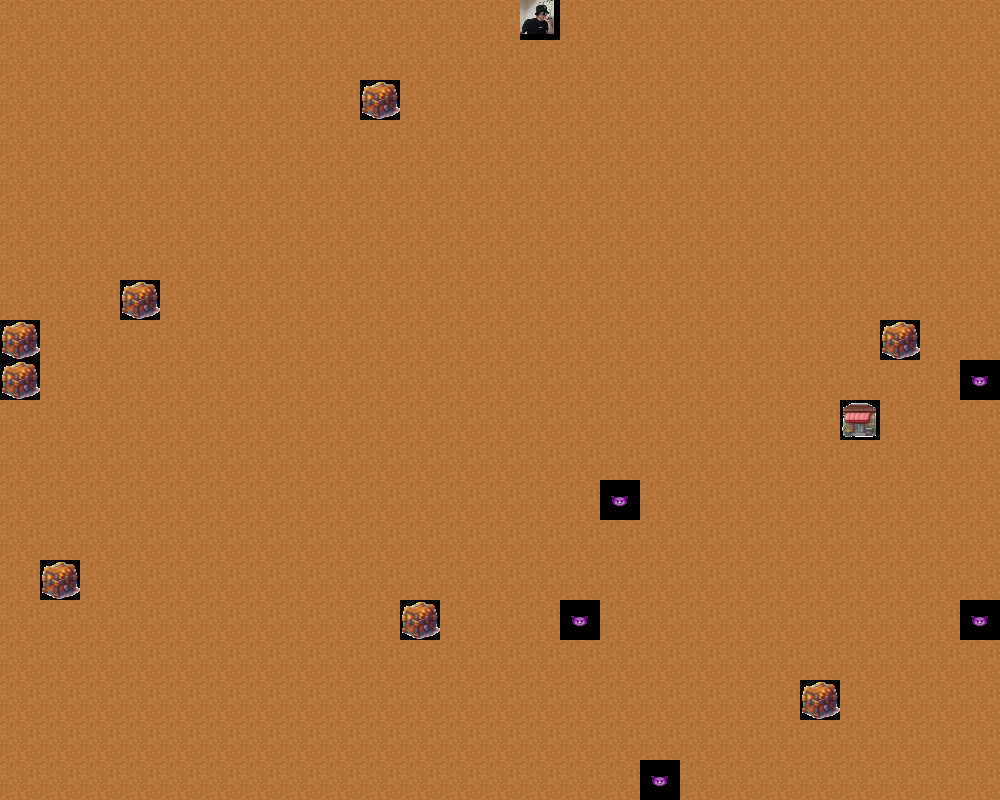
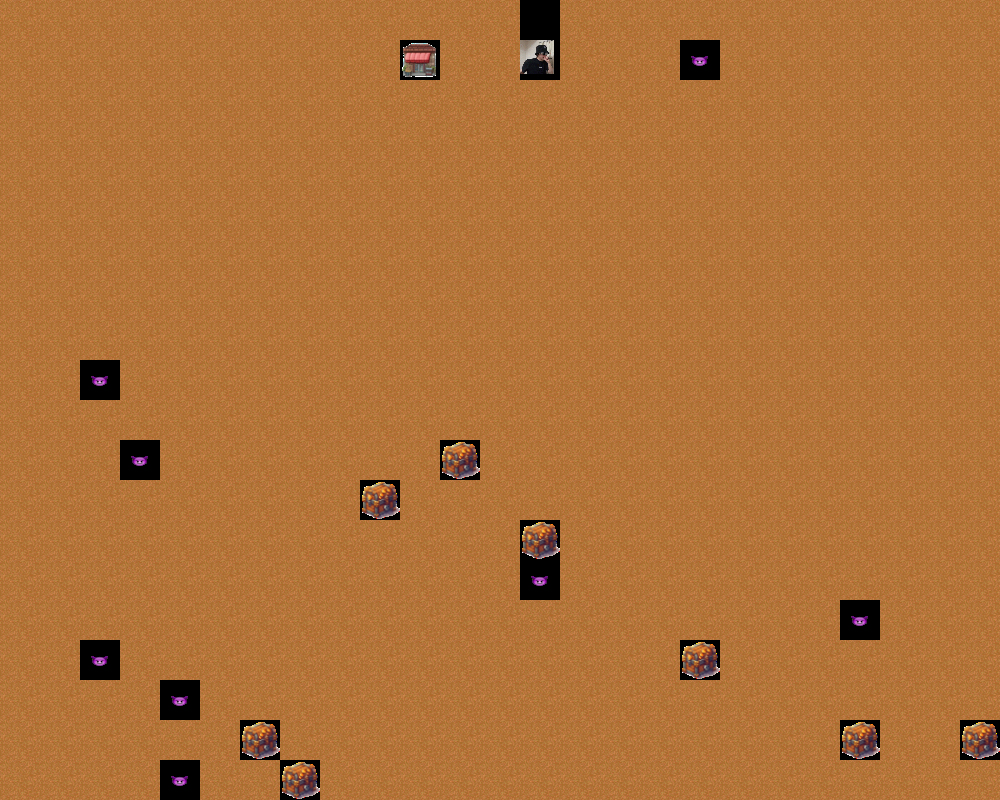
眠い中がんばった

diff --git a/assets/cogs/database/shop.py b/assets/cogs/database/shop.py
@@ -2,7 +2,7 @@ import random
 import asyncio
 from aiosqlite import connect
 import json
-
+import discord
 
 def get_path():
     with open('assets/config/paths.json', encoding='utf-8') as fh:
@@ -21,14 +21,22 @@ NONE_PATH = paths_list["IMG_PATH"] + paths_list["NONE_PATH"]
 BG_TMP_PATH = paths_list["IMG_PATH"] + paths_list["BG_TMP_PATH"]
 TREASURE_BOX_PATH = paths_list["IMG_PATH"] + "treasure_box.png"
 SHOP_PATH = paths_list["IMG_PATH"] + "shop.png"
+INSHOP_PATH = paths_list["IMG_PATH"] + "inside_of_shop.png"
 
 
 class Shop:
     def __init__(self, ctx=None, interaction=None):
         self.ctx = ctx
         self.interaction = interaction
+        self.ctxInt = ctx if ctx else interaction
         self.user = self.ctx.author if self.ctx else self.interaction.user
         self.user_id = self.user.id
+        
+    async def shop(self):
+        embed = discord.Embed(description="いらっしゃーい")
+        file = discord.File(fp=INSHOP_PATH, spoiler=False)
+        embed.set_image(url=f"attachment://inside_of_shop.png")
+        msg = await self.ctxInt.send(file=file, embed=embed)
 
     async def buy(self):
         pass

diff --git a/assets/cogs/database/ImageGenerator.py b/assets/cogs/database/ImageGenerator.py
@@ -53,7 +53,7 @@ class ImageGenerator(Player):
             background_img = self.conversion_pos(background_img, treasure_img, await treasure.get_treasure_point(layer), center=False) #宝のある場所に画像をはる
             background_img = self.conversion_pos(background_img, shop_img, await shop.get_shop_point(layer), center=False) #店のある場所に画像をはる
             background_img = self.conversion_pos(background_img, player_img, [player_pos], center=True)#プレイヤーの画像をはる
-            background_img = self.conversion_pos(background_img, monster_img, await monster.get_monster_point(layer), center=True)#monsterの画像をはる
+            background_img = self.conversion_pos(background_img, monster_img, await monster.get_monster_point(layer), center=False)#monsterの画像をはる
             
             background_img.save(f'{IMG_PATH}' + f'/playing_{self.user_id}.png', quality=95)
         except:
